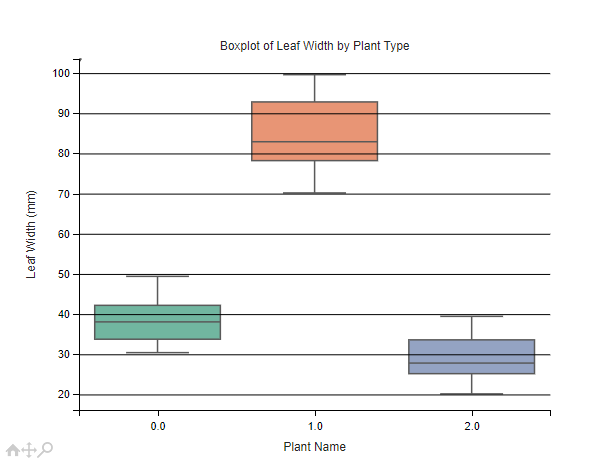
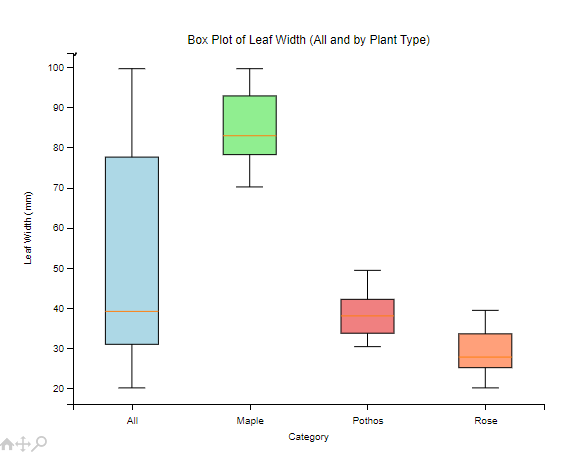
push for hw2

Changed region(s): [[0.0926, 0.0615, 0.9262, 0.9846], [0.0309, 0.4, 0.0617, 0.6154], [0.0, 0.9538, 0.0926, 1.0]]

diff --git a/hw2.py b/hw2.py
@@ -1,7 +1,8 @@
 '''
-name: Weiqi Dong
-date: 1/20/2025
+Name: Weiqi Dong
+Date: 1/20/2025
 '''
+
 import pandas as pd
 import matplotlib.pyplot as plt
 import seaborn as sns
@@ -9,45 +10,97 @@ import seaborn as sns
 # 1. Load the data
 data = pd.read_csv('data/plant_data.csv')
 
-# 2. Histograms
-# Set the style for the plots
-sns.set(style="whitegrid")
+# Define plant types and colors
+plant_types = data['Plant_Name'].unique()
+palette = sns.color_palette('Set2', len(plant_types))
 
-# Plot histogram for leaf width
-plt.figure(figsize=(12, 6))
-sns.histplot(data=data, x='Leaf_Width', hue='Plant_Name', kde=True, bins=15, palette='Set1')
-plt.title('Histogram of Leaf Width by Plant Type')
-plt.xlabel('Leaf Width (mm)')
-plt.ylabel('Frequency')
+# 2. Create Grid Layout for Leaf Width Histograms
+fig, axes = plt.subplots(2, 2, figsize=(16, 14), gridspec_kw={'wspace': 0.3, 'hspace': 0.4})  # Increase figure size and spacing
+
+# Plot All Plants in the Top-Left
+sns.histplot(data=data, x='Leaf_Width', kde=True, bins=15, color='gray', ax=axes[0, 0])
+axes[0, 0].set_title('All Plants')
+axes[0, 0].set_xlabel('Leaf Width (mm)')
+axes[0, 0].set_ylabel('Frequency')
+
+# Plot Individual Plant Types
+for i, plant in enumerate(plant_types):
+    row, col = divmod(i + 1, 2)
+    sns.histplot(data=data[data['Plant_Name'] == plant], x='Leaf_Width', kde=True, bins=15, color=palette[i], ax=axes[row, col])
+    axes[row, col].set_title(plant)
+    axes[row, col].set_xlabel('Leaf Width (mm)')
+    axes[row, col].set_ylabel('Frequency')
+
+# Add the figure title at the bottom
+fig.subplots_adjust(bottom=0.1, top=0.95)  # Adjust subplot spacing
+fig.text(0.5, 0.02, 'Histogram of Leaf Width', fontsize=20, weight='bold', ha='center')  # Title at the bottom
 plt.show()
 
-# Plot histogram for leaf length
-plt.figure(figsize=(12, 6))
-sns.histplot(data=data, x='Leaf_Length', hue='Plant_Name', kde=True, bins=15, palette='Set1')
-plt.title('Histogram of Leaf Length by Plant Type')
-plt.xlabel('Leaf Length (mm)')
-plt.ylabel('Frequency')
+# 3. Create Grid Layout for Leaf Length Histograms
+fig, axes = plt.subplots(2, 2, figsize=(16, 14), gridspec_kw={'wspace': 0.3, 'hspace': 0.4})  # Increase figure size and spacing
+
+# Plot All Plants in the Top-Left
+sns.histplot(data=data, x='Leaf_Length', kde=True, bins=15, color='gray', ax=axes[0, 0])
+axes[0, 0].set_title('All Plants')
+axes[0, 0].set_xlabel('Leaf Length (mm)')
+axes[0, 0].set_ylabel('Frequency')
+
+# Plot Individual Plant Types
+for i, plant in enumerate(plant_types):
+    row, col = divmod(i + 1, 2)
+    sns.histplot(data=data[data['Plant_Name'] == plant], x='Leaf_Length', kde=True, bins=15, color=palette[i], ax=axes[row, col])
+    axes[row, col].set_title(plant)
+    axes[row, col].set_xlabel('Leaf Length (mm)')
+    axes[row, col].set_ylabel('Frequency')
+
+# Add the figure title at the bottom
+fig.subplots_adjust(bottom=0.1, top=0.95)  # Adjust subplot spacing
+fig.text(0.5, 0.02, 'Histogram of Leaf Length', fontsize=20, weight='bold', ha='center')  # Title at the bottom
 plt.show()
 
-# 3. Boxplots
-# Plot boxplot for leaf width
+# 4. Boxplots
+# 4.1 Add an 'All' Column
+data['All'] = 'All'  # Add an 'All' column for boxplots
+
+# 4.2 Combine 'All' and 'Plant_Name' Data
+combined_data = pd.concat([
+    data[['All', 'Leaf_Width', 'Leaf_Length']].rename(columns={'All': 'Category'}),
+    data[['Plant_Name', 'Leaf_Width', 'Leaf_Length']].rename(columns={'Plant_Name': 'Category'})
+])
+
+# 4.3 Define Categories and Colors
+categories = ['All', 'Maple', 'Pothos', 'Rose']
+colors = ['lightblue', 'lightgreen', 'lightcoral', 'lightsalmon']
+
+# 4.4 Boxplot for Leaf Width
 plt.figure(figsize=(10, 6))
-sns.boxplot(data=data, x='Plant_Name', y='Leaf_Width', palette='Set2')
-plt.title('Boxplot of Leaf Width by Plant Type')
-plt.xlabel('Plant Name')
+box_data = [combined_data[combined_data['Category'] == cat]['Leaf_Width'] for cat in categories]
+box_plot = plt.boxplot(box_data, labels=categories, patch_artist=True)  # Enable color filling
+
+# Assign colors to each box
+for patch, color in zip(box_plot['boxes'], colors):
+    patch.set_facecolor(color)
+
+plt.title('Box Plot of Leaf Width (All and by Plant Type)')
+plt.xlabel('Category')
 plt.ylabel('Leaf Width (mm)')
 plt.show()
 
-# Plot boxplot for leaf length
+# 4.5 Boxplot for Leaf Length
 plt.figure(figsize=(10, 6))
-sns.boxplot(data=data, x='Plant_Name', y='Leaf_Length', palette='Set2')
-plt.title('Boxplot of Leaf Length by Plant Type')
-plt.xlabel('Plant Name')
+box_data = [combined_data[combined_data['Category'] == cat]['Leaf_Length'] for cat in categories]
+box_plot = plt.boxplot(box_data, labels=categories, patch_artist=True)  # Enable color filling
+
+# Assign colors to each box
+for patch, color in zip(box_plot['boxes'], colors):
+    patch.set_facecolor(color)
+
+plt.title('Box Plot of Leaf Length (All and by Plant Type)')
+plt.xlabel('Category')
 plt.ylabel('Leaf Length (mm)')
 plt.show()
 
-# 4. Scatter Plot
-# Plot scatter plot
+# 5. Scatter Plot
 plt.figure(figsize=(10, 6))
 sns.scatterplot(data=data, x='Leaf_Width', y='Leaf_Length', hue='Plant_Name', palette='Set1', s=100)
 plt.title('Scatter Plot of Leaf Width vs Leaf Length')
@@ -56,14 +109,39 @@ plt.ylabel('Leaf Length (mm)')
 plt.legend(title='Plant Name')
 plt.show()
 
-# 5. Calculate Statistics
-pd.set_option('display.max_columns', None)
-pd.set_option('display.width', 1000)
-stats = data.groupby('Plant_Name').agg({
+# 6. Calculate Statistics
+# 6.1 Calculate statistics for each plant type
+plant_stats = data.groupby('Plant_Name').agg({
     'Leaf_Width': ['mean', 'median', 'var', 'std'],
     'Leaf_Length': ['mean', 'median', 'var', 'std']
+}).stack().reset_index()
+
+# 6.2 Calculate statistics for all plants combined
+all_stats = pd.DataFrame({
+    'Category': ['All', 'All', 'All', 'All'],
+    'Statistic': ['mean', 'median', 'var', 'std'],
+    'Leaf_Width': [
+        data['Leaf_Width'].mean(),
+        data['Leaf_Width'].median(),
+        data['Leaf_Width'].var(),
+        data['Leaf_Width'].std()
+    ],
+    'Leaf_Length': [
+        data['Leaf_Length'].mean(),
+        data['Leaf_Length'].median(),
+        data['Leaf_Length'].var(),
+        data['Leaf_Length'].std()
+    ]
 })
+
+# 6.3 Rename columns for consistency
+plant_stats = plant_stats.rename(columns={'level_1': 'Statistic', 'Plant_Name': 'Category'})
+
+# 6.4 Combine plant-specific and overall statistics
+combined_stats = pd.concat([all_stats, plant_stats], ignore_index=True)
+
+# 6.5 Print statistics
+pd.set_option('display.max_columns', None)
+pd.set_option('display.width', 1000)
 print("Statistics:")
-print(stats)
-
-
+print(combined_stats)

diff --git a/README.md b/README.md
@@ -49,7 +49,7 @@ __*Analysis/Visualization*__
 
 1. ```Graph histograms of your data with appropriate labels. ```
 
-      ![img_1.png](img_1.png)    ![img_2.png](img_2.png)
+   ![img_1.png](img_1.png)    ![img_2.png](img_2.png)
 
 2. ```Graph boxplots of your data with appropriate labels. ```
 
@@ -61,7 +61,7 @@ __*Analysis/Visualization*__
 
 4. ```Explain each graph in terms of variance, mean, median, and standard deviation. ```
 
-      ![img.png](img.png)
+   ![img.png](img.png)
 
 **Histogram of Leaf Width by Plant Type**
 
